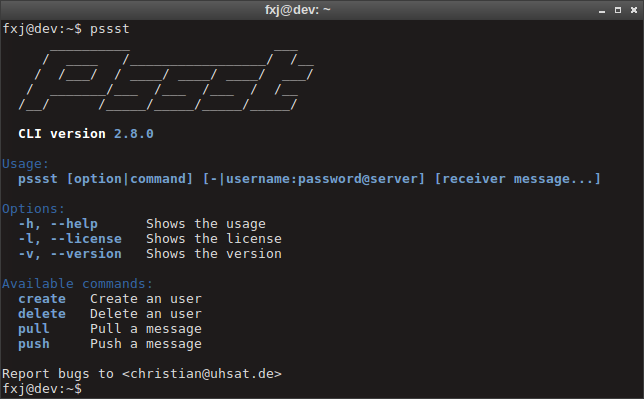
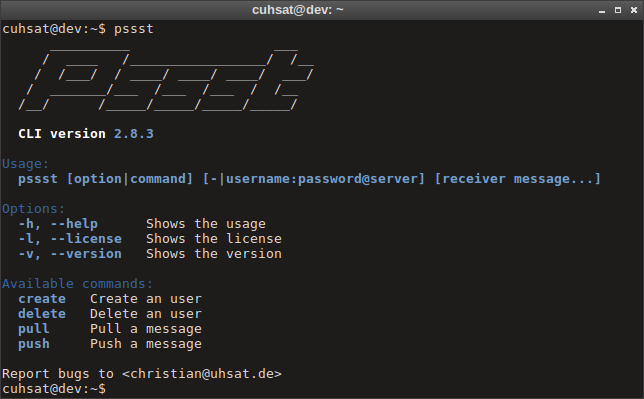
Added screenshot to doc

diff --git a/src/cli/pssst.py b/src/cli/pssst.py
@@ -48,7 +48,7 @@ except ImportError:
     sys.exit("Requires PyCrypto (https://github.com/dlitz/pycrypto)")
 
 
-__all__, __version__ = ["Pssst"], "2.8.2"
+__all__, __version__ = ["Pssst"], "2.8.3"
 
 
 def _hexlify(data): # Utility shortcut
